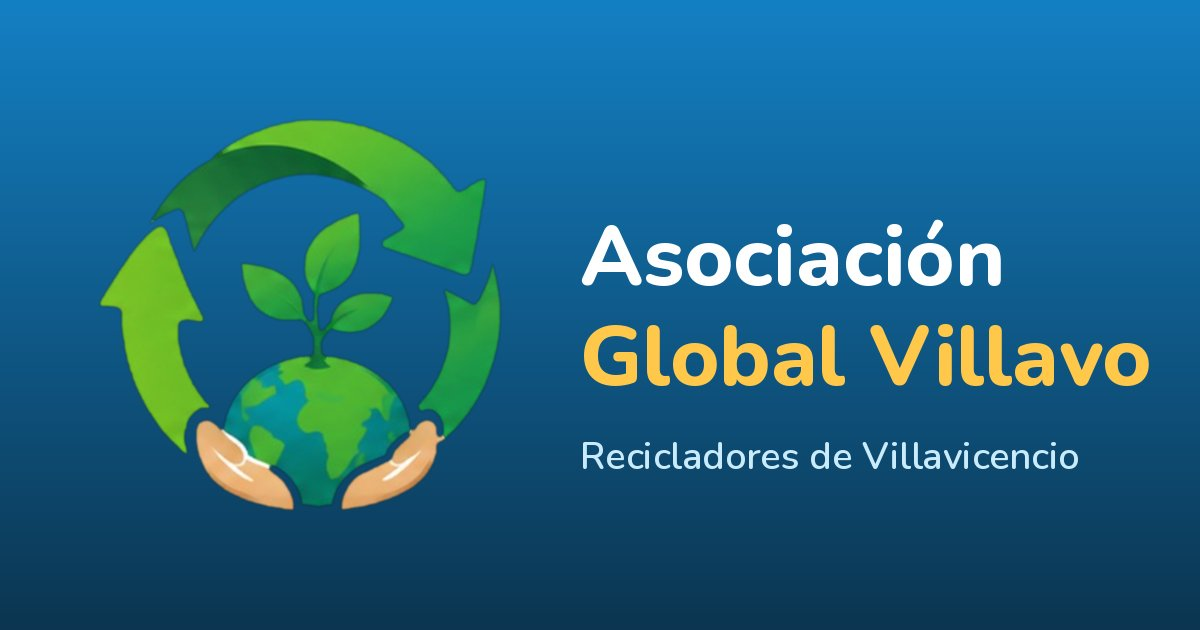
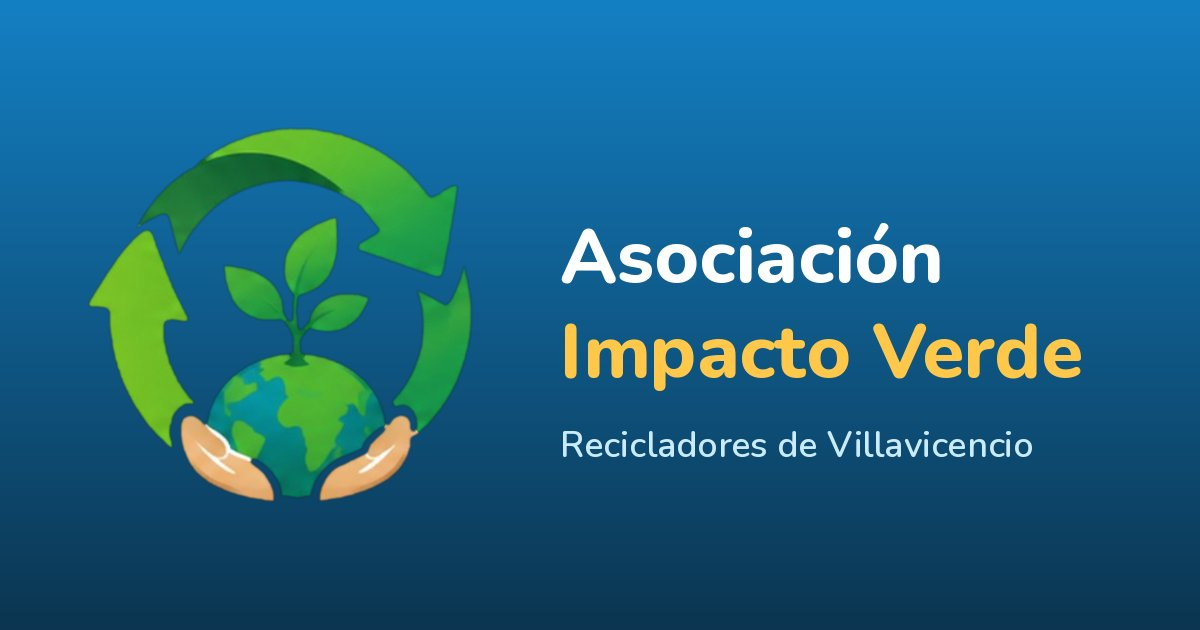
Nombre del sitio: Asociación Impacto Verde
- empresa.nombre, títulos de las páginas, README e imagen para compartir con el nombre nuevo.
- La razón social completa se mantiene en Quiénes somos y en el pie.
- El nombre del encabezado se parte en dos líneas equilibradas.

Claude-Session: https://claude.ai/code/session_011kqpgVAHYeXvMbmVrhETS1

diff --git a/index.html b/index.html
@@ -3,12 +3,12 @@
 <head>
 <meta charset="utf-8">
 <meta name="viewport" content="width=device-width, initial-scale=1">
-<title>Asociación Global Villavo · Reciclaje en tu ciudad</title>
+<title>Asociación Impacto Verde · Reciclaje en tu ciudad</title>
 <meta name="description" content="Consulta tu ruta, aprende a separar tus residuos y pide una recolección de material reciclable.">
 <meta name="theme-color" content="#0b3550">
 <meta property="og:type" content="website">
 <meta property="og:locale" content="es_CO">
-<meta property="og:title" content="Asociación Global Villavo · Reciclaje en tu ciudad">
+<meta property="og:title" content="Asociación Impacto Verde · Reciclaje en tu ciudad">
 <meta property="og:description" content="Consulta tu ruta, aprende a separar tus residuos y pide una recolección de material reciclable.">
 <meta property="og:image" content="img/og-image.jpg">
 <link rel="icon" type="image/png" sizes="48x48" href="img/favicon-32.png">

diff --git a/como-reciclar.html b/como-reciclar.html
@@ -3,12 +3,12 @@
 <head>
 <meta charset="utf-8">
 <meta name="viewport" content="width=device-width, initial-scale=1">
-<title>Cómo reciclar · Asociación Global Villavo</title>
+<title>Cómo reciclar · Asociación Impacto Verde</title>
 <meta name="description" content="Guía para separar aluminio, chatarra, PET, papel, bolsas, vidrio y cartón, y qué va en cada bolsa.">
 <meta name="theme-color" content="#0b3550">
 <meta property="og:type" content="website">
 <meta property="og:locale" content="es_CO">
-<meta property="og:title" content="Cómo reciclar · Asociación Global Villavo">
+<meta property="og:title" content="Cómo reciclar · Asociación Impacto Verde">
 <meta property="og:description" content="Guía para separar aluminio, chatarra, PET, papel, bolsas, vidrio y cartón, y qué va en cada bolsa.">
 <meta property="og:image" content="img/og-image.jpg">
 <link rel="icon" type="image/png" sizes="48x48" href="img/favicon-32.png">

diff --git a/contacto.html b/contacto.html
@@ -3,12 +3,12 @@
 <head>
 <meta charset="utf-8">
 <meta name="viewport" content="width=device-width, initial-scale=1">
-<title>Contacto · Asociación Global Villavo</title>
+<title>Contacto · Asociación Impacto Verde</title>
 <meta name="description" content="Escríbenos por WhatsApp o por el formulario: solicitudes, peticiones, quejas, reclamos y sugerencias.">
 <meta name="theme-color" content="#0b3550">
 <meta property="og:type" content="website">
 <meta property="og:locale" content="es_CO">
-<meta property="og:title" content="Contacto · Asociación Global Villavo">
+<meta property="og:title" content="Contacto · Asociación Impacto Verde">
 <meta property="og:description" content="Escríbenos por WhatsApp o por el formulario: solicitudes, peticiones, quejas, reclamos y sugerencias.">
 <meta property="og:image" content="img/og-image.jpg">
 <link rel="icon" type="image/png" sizes="48x48" href="img/favicon-32.png">

diff --git a/toneladas.html b/toneladas.html
@@ -3,12 +3,12 @@
 <head>
 <meta charset="utf-8">
 <meta name="viewport" content="width=device-width, initial-scale=1">
-<title>Toneladas aprovechadas · Asociación Global Villavo</title>
+<title>Toneladas aprovechadas · Asociación Impacto Verde</title>
 <meta name="description" content="Gráfica mensual y total anual de las toneladas de material aprovechado.">
 <meta name="theme-color" content="#0b3550">
 <meta property="og:type" content="website">
 <meta property="og:locale" content="es_CO">
-<meta property="og:title" content="Toneladas aprovechadas · Asociación Global Villavo">
+<meta property="og:title" content="Toneladas aprovechadas · Asociación Impacto Verde">
 <meta property="og:description" content="Gráfica mensual y total anual de las toneladas de material aprovechado.">
 <meta property="og:image" content="img/og-image.jpg">
 <link rel="icon" type="image/png" sizes="48x48" href="img/favicon-32.png">

diff --git a/quienes-somos.html b/quienes-somos.html
@@ -3,12 +3,12 @@
 <head>
 <meta charset="utf-8">
 <meta name="viewport" content="width=device-width, initial-scale=1">
-<title>Quiénes somos · Asociación Global Villavo</title>
+<title>Quiénes somos · Asociación Impacto Verde</title>
 <meta name="description" content="Historia, misión, visión, equipo y certificaciones de la asociación de recicladores.">
 <meta name="theme-color" content="#0b3550">
 <meta property="og:type" content="website">
 <meta property="og:locale" content="es_CO">
-<meta property="og:title" content="Quiénes somos · Asociación Global Villavo">
+<meta property="og:title" content="Quiénes somos · Asociación Impacto Verde">
 <meta property="og:description" content="Historia, misión, visión, equipo y certificaciones de la asociación de recicladores.">
 <meta property="og:image" content="img/og-image.jpg">
 <link rel="icon" type="image/png" sizes="48x48" href="img/favicon-32.png">

diff --git a/servicios.html b/servicios.html
@@ -3,12 +3,12 @@
 <head>
 <meta charset="utf-8">
 <meta name="viewport" content="width=device-width, initial-scale=1">
-<title>Servicios · Asociación Global Villavo</title>
+<title>Servicios · Asociación Impacto Verde</title>
 <meta name="description" content="Materiales que recibimos, qué recolectamos y cómo pedir una recolección.">
 <meta name="theme-color" content="#0b3550">
 <meta property="og:type" content="website">
 <meta property="og:locale" content="es_CO">
-<meta property="og:title" content="Servicios · Asociación Global Villavo">
+<meta property="og:title" content="Servicios · Asociación Impacto Verde">
 <meta property="og:description" content="Materiales que recibimos, qué recolectamos y cómo pedir una recolección.">
 <meta property="og:image" content="img/og-image.jpg">
 <link rel="icon" type="image/png" sizes="48x48" href="img/favicon-32.png">

diff --git a/rutas-y-horarios.html b/rutas-y-horarios.html
@@ -3,12 +3,12 @@
 <head>
 <meta charset="utf-8">
 <meta name="viewport" content="width=device-width, initial-scale=1">
-<title>Rutas y horarios · Asociación Global Villavo</title>
+<title>Rutas y horarios · Asociación Impacto Verde</title>
 <meta name="description" content="Consulta los días y horarios de recolección de tu zona.">
 <meta name="theme-color" content="#0b3550">
 <meta property="og:type" content="website">
 <meta property="og:locale" content="es_CO">
-<meta property="og:title" content="Rutas y horarios · Asociación Global Villavo">
+<meta property="og:title" content="Rutas y horarios · Asociación Impacto Verde">
 <meta property="og:description" content="Consulta los días y horarios de recolección de tu zona.">
 <meta property="og:image" content="img/og-image.jpg">
 <link rel="icon" type="image/png" sizes="48x48" href="img/favicon-32.png">

diff --git a/noticias.html b/noticias.html
@@ -3,12 +3,12 @@
 <head>
 <meta charset="utf-8">
 <meta name="viewport" content="width=device-width, initial-scale=1">
-<title>Noticias · Asociación Global Villavo</title>
+<title>Noticias · Asociación Impacto Verde</title>
 <meta name="description" content="Noticias y novedades de la asociación de recicladores.">
 <meta name="theme-color" content="#0b3550">
 <meta property="og:type" content="website">
 <meta property="og:locale" content="es_CO">
-<meta property="og:title" content="Noticias · Asociación Global Villavo">
+<meta property="og:title" content="Noticias · Asociación Impacto Verde">
 <meta property="og:description" content="Noticias y novedades de la asociación de recicladores.">
 <meta property="og:image" content="img/og-image.jpg">
 <link rel="icon" type="image/png" sizes="48x48" href="img/favicon-32.png">

diff --git a/404.html b/404.html
@@ -3,12 +3,12 @@
 <head>
 <meta charset="utf-8">
 <meta name="viewport" content="width=device-width, initial-scale=1">
-<title>Página no encontrada · Asociación Global Villavo</title>
+<title>Página no encontrada · Asociación Impacto Verde</title>
 <meta name="description" content="Página no encontrada.">
 <meta name="theme-color" content="#0b3550">
 <meta property="og:type" content="website">
 <meta property="og:locale" content="es_CO">
-<meta property="og:title" content="Página no encontrada · Asociación Global Villavo">
+<meta property="og:title" content="Página no encontrada · Asociación Impacto Verde">
 <meta property="og:description" content="Página no encontrada.">
 <meta property="og:image" content="img/og-image.jpg">
 <link rel="icon" type="image/png" sizes="48x48" href="img/favicon-32.png">

diff --git a/css/styles.css b/css/styles.css
@@ -169,7 +169,7 @@ ul, ol { padding-left: 1.2em; }
 .marca { display: flex; align-items: center; gap: .6rem; text-decoration: none; color: var(--c900); flex: none; min-width: 0; margin-right: auto; }
 .marca img { width: 48px; height: 48px; object-fit: contain; flex: none; }
 .marca__texto { display: grid; line-height: 1.08; min-width: 0; }
-.marca__texto strong { font: 900 1rem var(--f-titulo); letter-spacing: -.01em; max-width: 9.5rem; }
+.marca__texto strong { font: 900 1rem var(--f-titulo); letter-spacing: -.01em; max-width: 9.5rem; text-wrap: balance; }
 .marca__texto small { font: 800 .68rem var(--f-titulo); color: var(--c700); letter-spacing: .1em; text-transform: uppercase; }
 
 .nav ul { list-style: none; margin: 0; padding: 0; display: flex; gap: .05rem; align-items: center; }

diff --git a/PENDIENTES.md b/PENDIENTES.md
@@ -4,7 +4,7 @@ Nada de esto se inventó: está vacío en `datos.json` hasta que la asociación 
 (Entra al sitio con `?admin=1` para ver estos mismos avisos dentro de cada página.)
 
 ## Datos de la empresa
-- [ ] Decidir el **nombre que va en el encabezado**: la razón social es «Asociación Global Socio Ambiental Impacto Verde» (ya aparece en Quiénes somos y en el pie), pero el encabezado y el logo usan el nombre corto «Asociación Global Villavo». Confirmar con la asociación si se deja así o se cambia
+- [ ] Nombre: la asociación se llama «Asociación Impacto Verde» (es el que usa el sitio en el encabezado y los títulos). La razón social completa, «Asociación Global Socio Ambiental Impacto Verde», se muestra en Quiénes somos y en el pie. Confirmar con la asociación que así lo quieren y que la ciudad (Villavicencio) es correcta
 - [ ] Año de fundación
 - [ ] Teléfono, **WhatsApp** (con 57), correo, dirección y horario de atención
 - [ ] Mapa / cómo llegar (enlace de inserción de Google Maps o un video corto de cómo llegar). Pista dada en el audio: la bodega queda cerca de la Avenida del Llano, en una esquina, antes de una carpintería, en una bodega grande. Falta la dirección exacta

diff --git a/README.md b/README.md
@@ -1,4 +1,4 @@
-# Sitio web — Asociación Global Villavo
+# Sitio web — Asociación Impacto Verde
 
 Sitio estático (HTML, CSS y JavaScript, sin build) para una asociación de recicladores de Villavicencio.
 Todo el contenido que cambia vive en **un solo archivo: `datos.json`**.
@@ -19,7 +19,7 @@ Inicio · Quiénes somos · Servicios · Cómo reciclar · Rutas y horarios · T
 
 ```json
 "empresa": {
-  "nombre": "Asociación Global Villavo",
+  "nombre": "Asociación Impacto Verde",
   "ciudad": "Villavicencio",
   "fundacion": 2021,
   "telefono": "608 000 0000",
